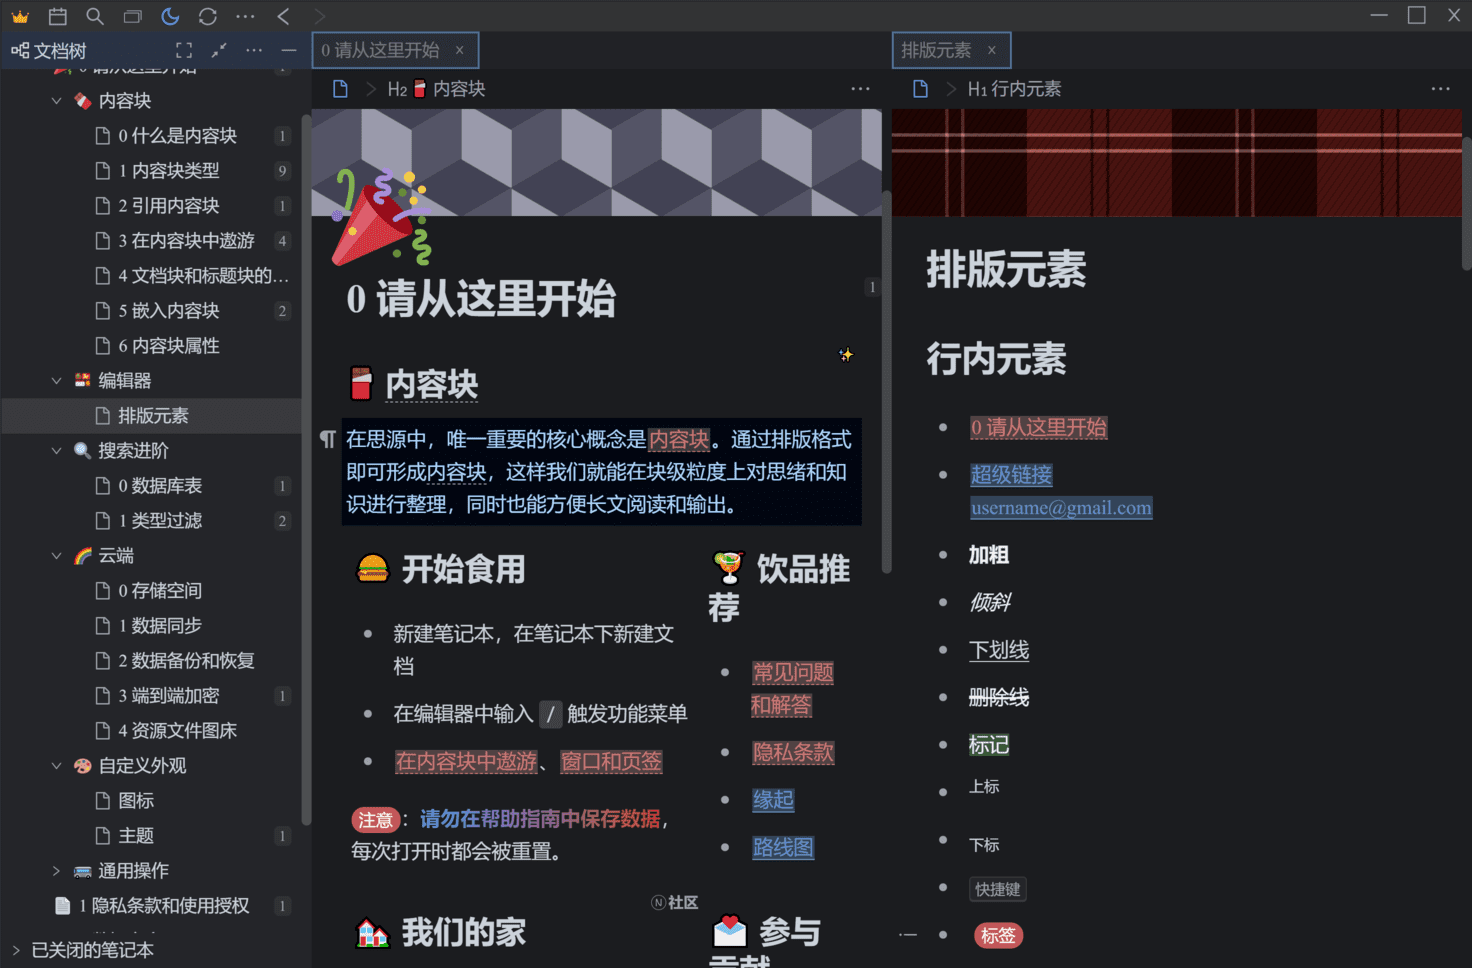
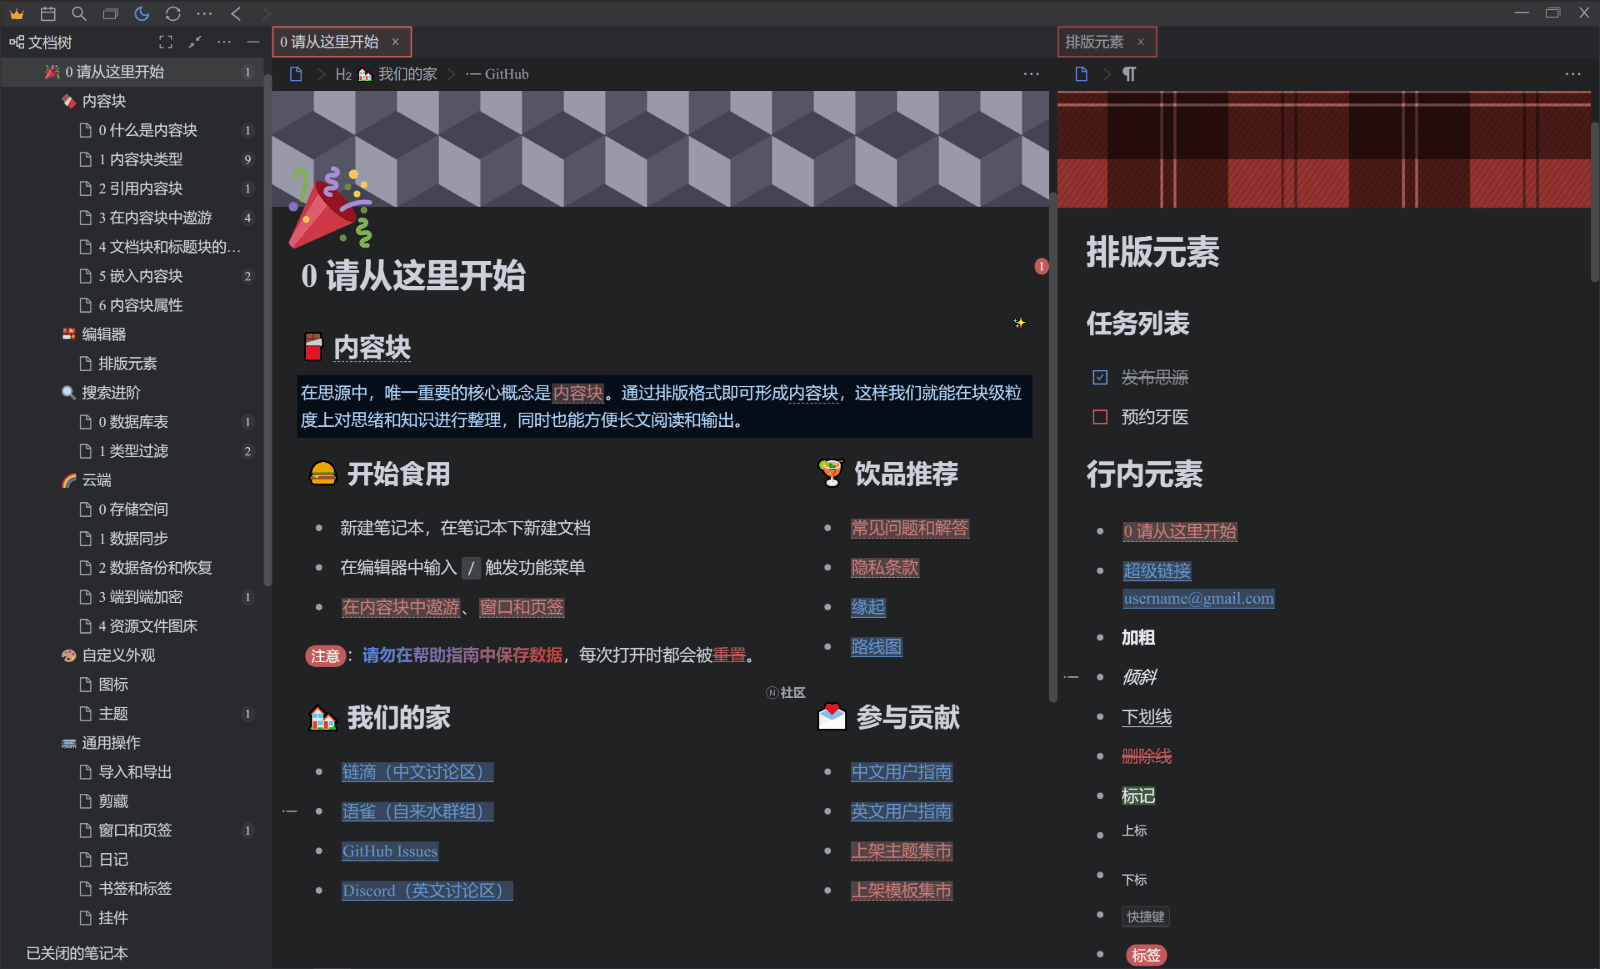
更新Relue-dark主题

Changed region(s): [[0.0, 0.0, 1.0, 1.0], [0.6562, 0.8678, 0.75, 1.0], [0.9375, 0.0, 1.0, 0.031]]

diff --git a/theme.css b/theme.css
@@ -199,14 +199,14 @@
   background-color: #cf5659;
 }
 
-/* ################ 页签 ############# */
+/* 页签 */
 .layout-tab-bar .item--focus {
-  box-shadow: 0px 0px 0px 1.5px #5695cf inset;
-  background-color: #5695cf21 !important;
-}
-.layout-tab-bar .item:hover {
   box-shadow: 0px 0px 0px 1.5px #cf5659 inset;
   background-color: #cc707021 !important;
+}
+.layout-tab-bar .item:hover {
+  box-shadow: 0px 0px 0px 1.5px #5695cf inset;
+  background-color: #5695cf21 !important;
 }
 .layout-tab-bar .item--unupdate {
   font-style: normal;
@@ -215,5 +215,47 @@
   max-width: none;
 }
 .layout-tab-bar .item__text::after {
-  background: #00000000 !important;
+  background: transparent !important;
+}
+
+/* 引用块 */
+.b3-list--files .b3-list-item .counter,
+.b3-list--files .b3-list-item .protyle-attr--refcount {
+  background-color: var(--b3-list-hover);
+  color: var(--b3-theme-on-background) !important;
+}
+.counter,
+.protyle-attr--refcount {
+  border-radius: 50%;
+  background-color: #cf5659;
+  color: #ffffff !important;
+}
+
+/* 删除线 */
+.b3-typography s,
+.protyle-wysiwyg s {
+  color: #cf5659;
+}
+
+/* 有序列表 */
+.protyle-wysiwyg [data-node-id].li > .protyle-action--order:after {
+  border-radius: 50%;
+}
+.protyle-wysiwyg [data-node-id].li > .protyle-action:after {
+  height: 18px;
+  width: 18px;
+  margin: -9px 0 0 -9px;
+}
+
+/* 任务列表 */
+.protyle-task--done {
+  color: #aaaaaabb;
+  text-decoration: line-through;
+}
+.protyle-task--done svg {
+  color: #5695cf !important;
+}
+
+.protyle-action--task svg {
+  color: #cf5659;
 }
